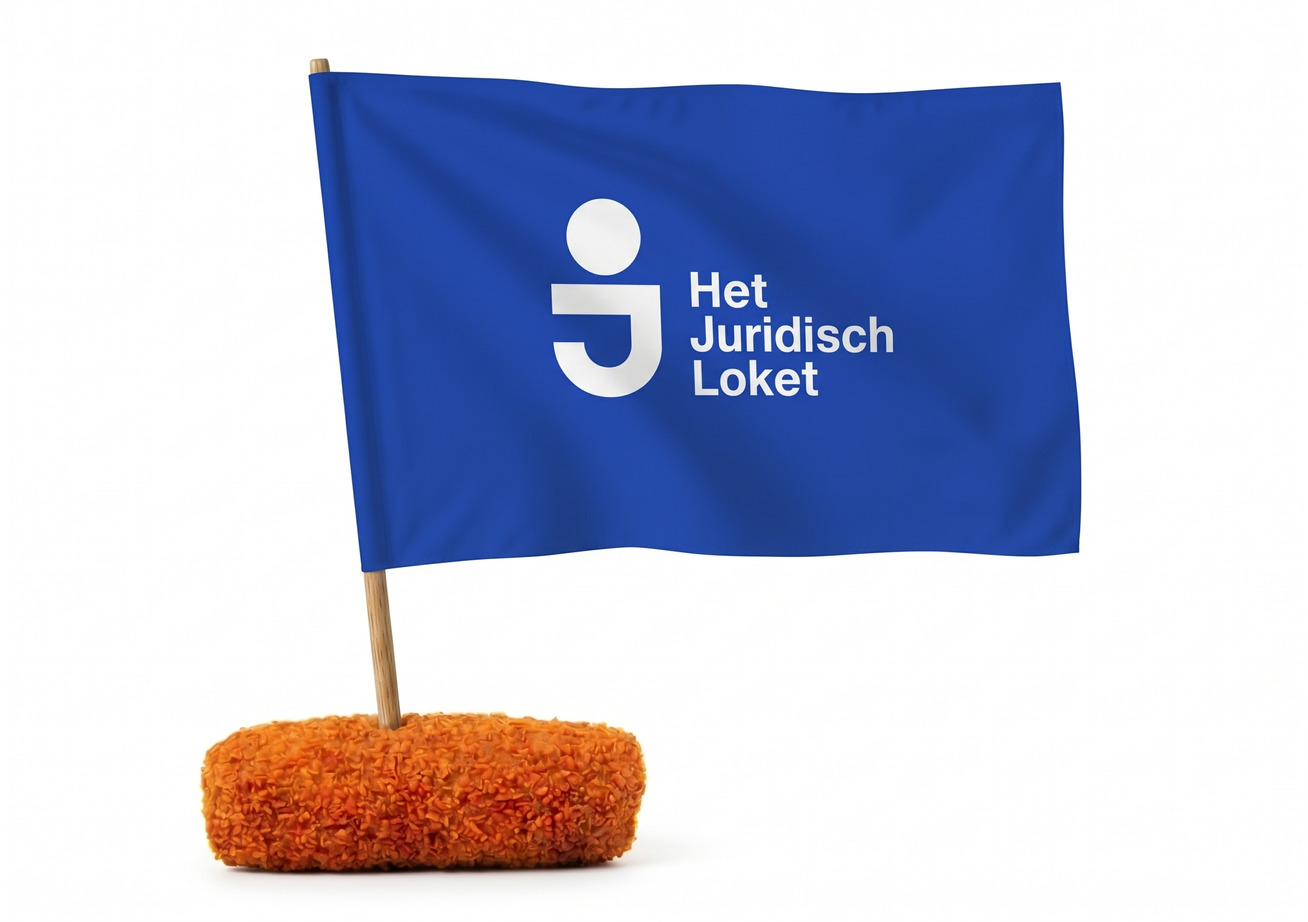
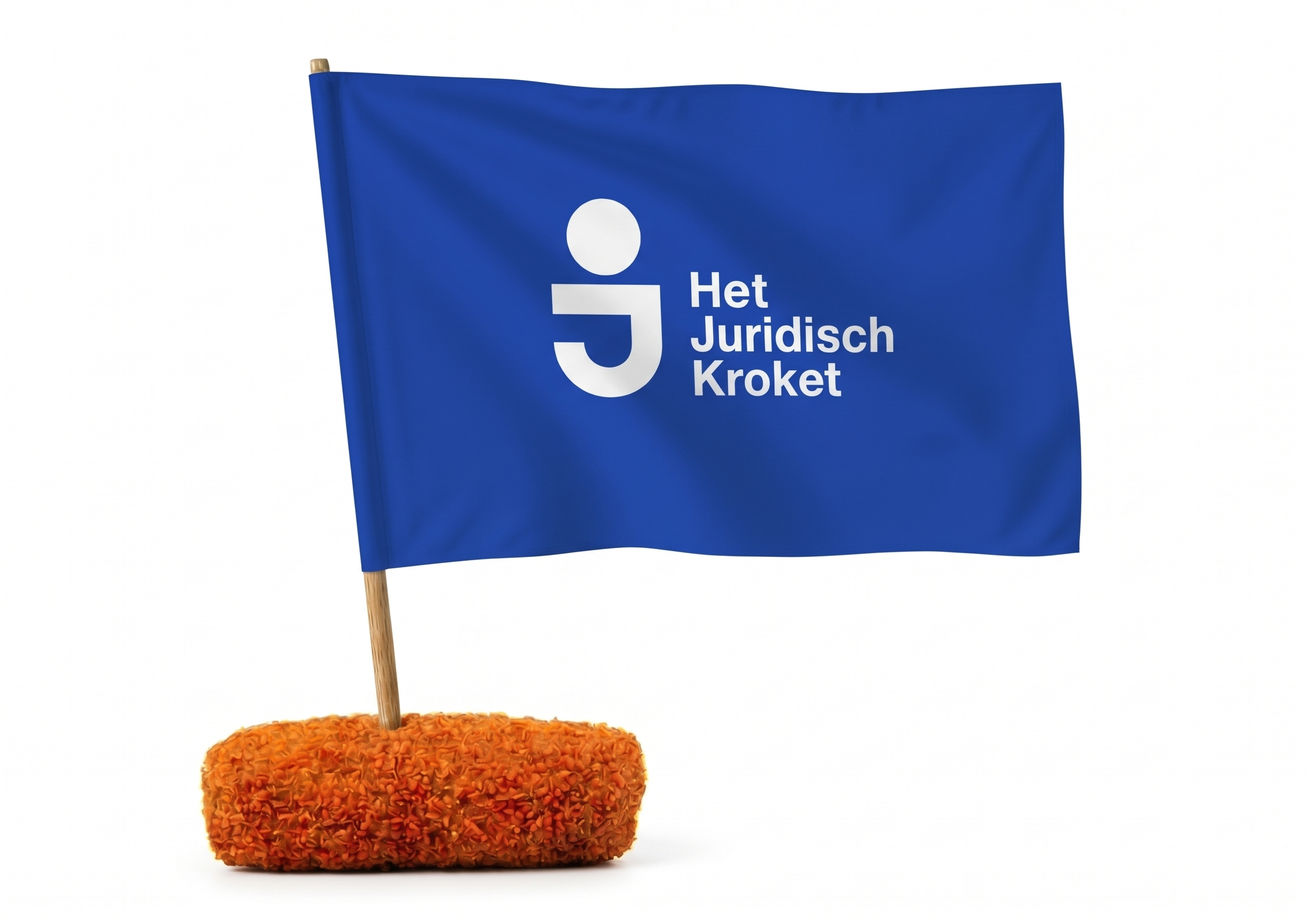
Update image to Het Juridisch Kroket

Changed region(s): [[0.155, 0.7812, 0.4959, 0.9375], [0.5269, 0.3438, 0.6509, 0.4375]]

diff --git a/index.html b/index.html
@@ -8,5 +8,5 @@
 html,body{margin:0;width:100%;height:100%;background:#fff}body{display:grid;place-items:center}img{display:block;width:100%;height:100vh;height:100dvh;object-fit:contain}
 </style>
 </head>
-<body><img src="kroket.jpeg" alt="Een kroket met een blauwe vlag van Het Juridisch Loket"></body>
+<body><img src="kroket.jpeg?v=1a8f9081784c" alt="Een kroket met een blauwe vlag van Het Juridisch Kroket"></body>
 </html>
